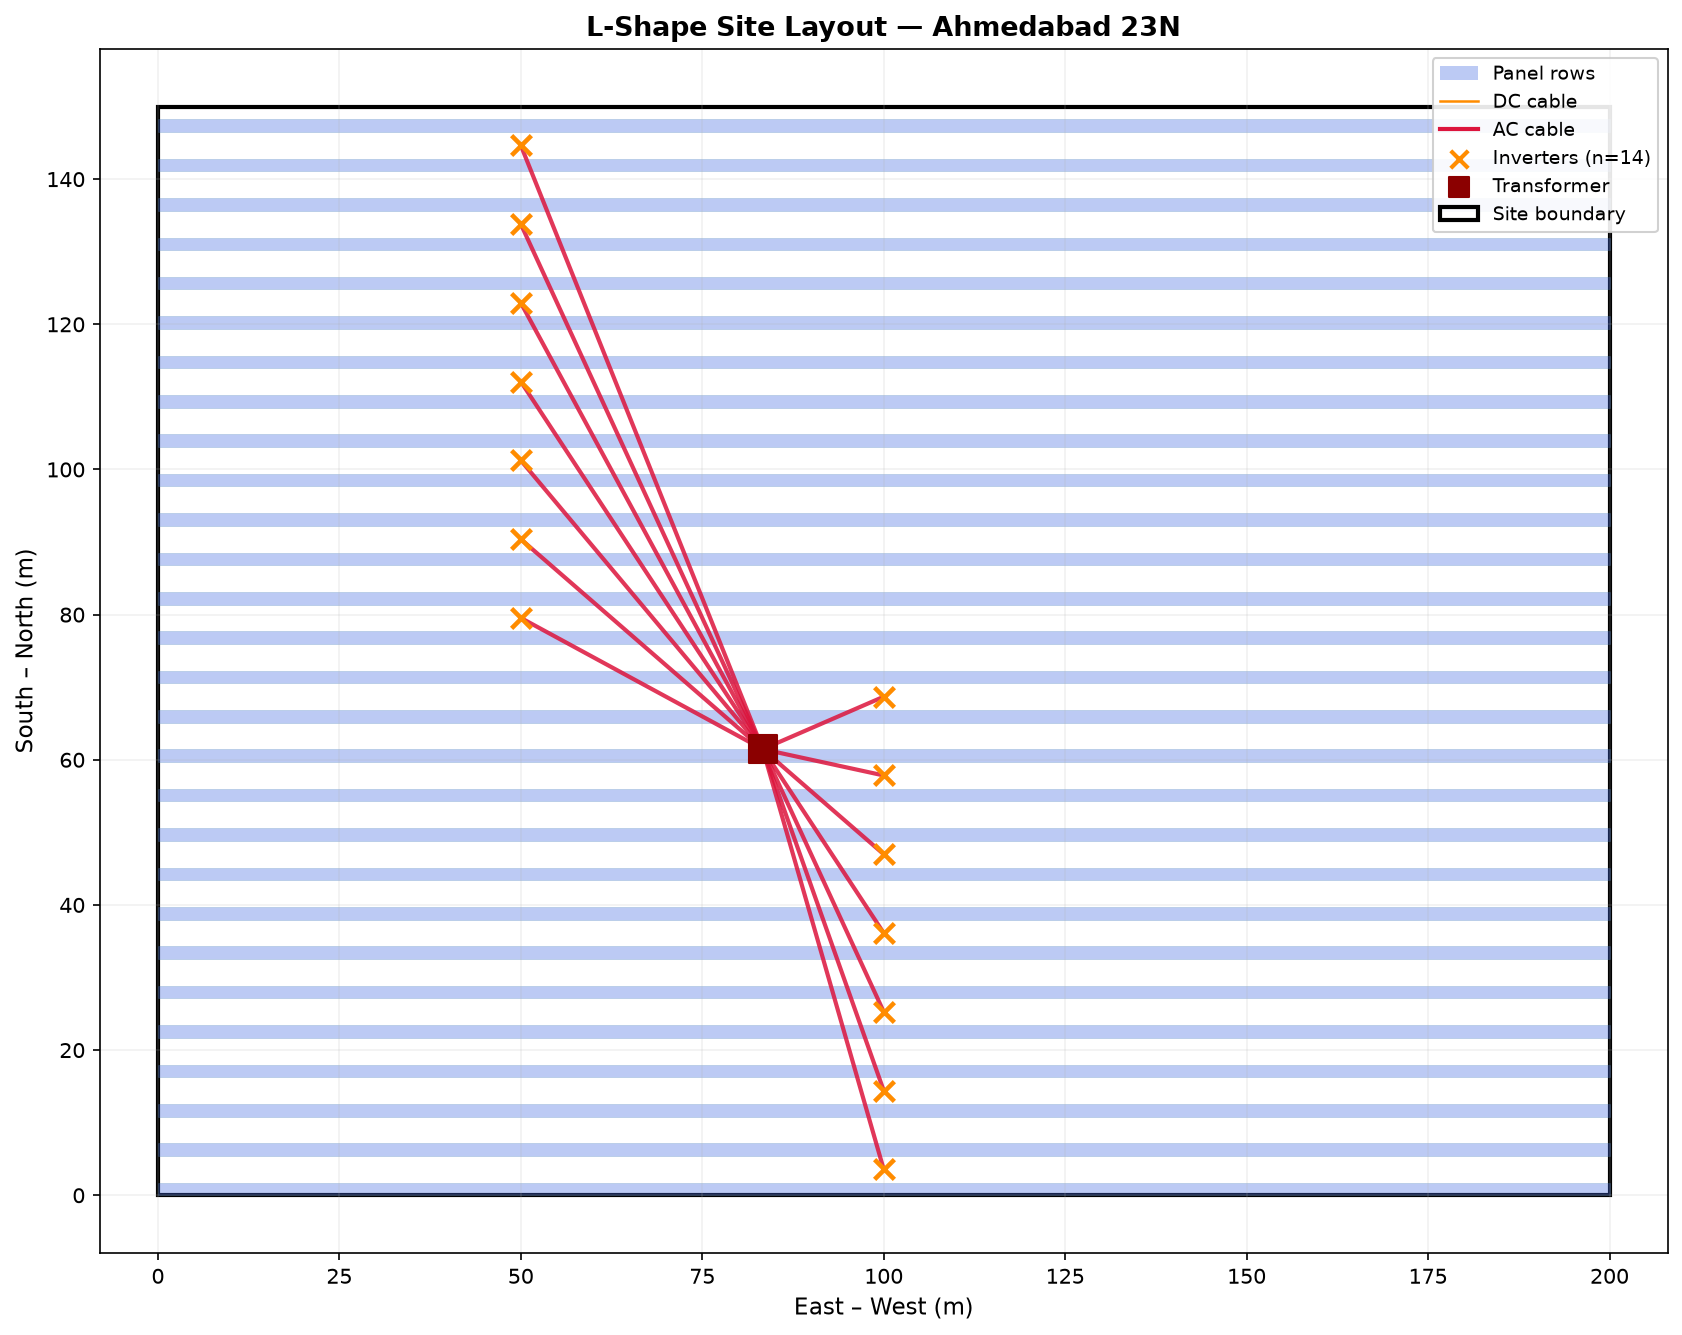
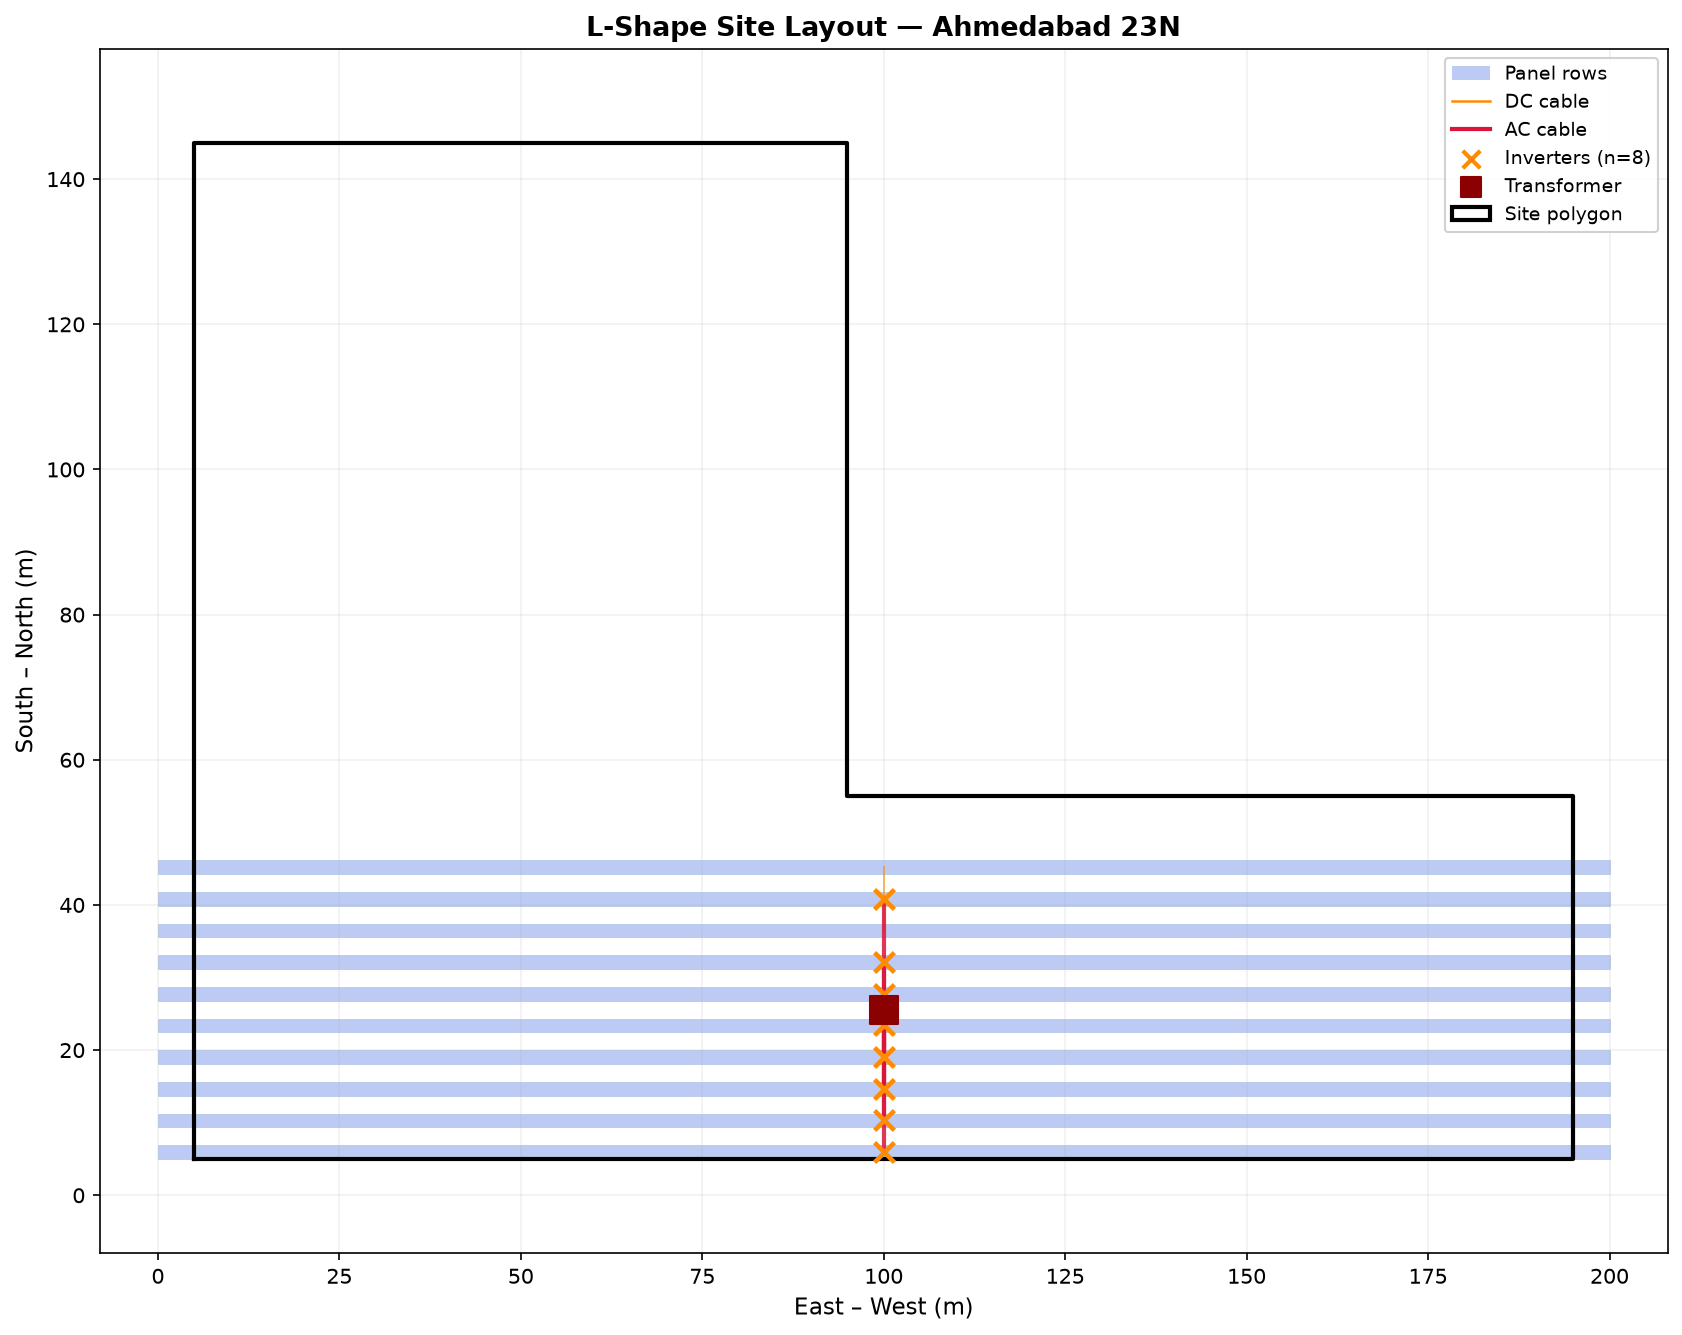
feat(examples): add run_lshape.py; regenerate layout_lshape.png with correct polygon outline
- New script exercises place_panels_polygon + apply_setback + render_layout
  with boundary= so the actual L-shape outline is visible in the PNG
- Replaces the old bounding-box-rectangle version of layout_lshape.png

Changed region(s): [[0.0927, 0.0307, 0.9893, 0.9213]]

diff --git a/plugins/pv-layout-design/examples/run_lshape.py b/plugins/pv-layout-design/examples/run_lshape.py
@@ -1,0 +1,81 @@
+"""
+L-shape site example — Ahmedabad 23N.
+
+Site: 200 m × 150 m minus a 100 m × 90 m notch from the top-right corner.
+Polygon vertices (metres): (0,0)→(200,0)→(200,60)→(100,60)→(100,150)→(0,150)
+Setback: 5 m from every edge.
+
+Run from repo root:
+    python plugins/pv-layout-design/examples/run_lshape.py
+"""
+
+import sys
+import pathlib
+
+sys.path.insert(0, str(pathlib.Path(__file__).parent.parent))
+
+from shapely.geometry import Polygon
+from pv_layout import (
+    apply_setback, place_panels_polygon,
+    ModuleSpec,
+    place_equipment, InverterSpec, TransformerSpec,
+    compute_all_losses, CableSpec,
+    render_layout,
+    recommend_tilt,
+)
+
+# ── Site ──────────────────────────────────────────────────────────────────────
+LAT, LON = 23.0, 72.6
+boundary_raw = Polygon([
+    (0, 0), (200, 0), (200, 60), (100, 60), (100, 150), (0, 150),
+])
+boundary = apply_setback(boundary_raw, setback_m=5.0)
+
+# ── Specs ─────────────────────────────────────────────────────────────────────
+tilt_deg  = recommend_tilt(LAT)          # → 20° for lat 23°
+module    = ModuleSpec(length=2.0, width=1.0, power_wp=400.0)
+inverter  = InverterSpec(rated_kw=100.0)
+xfmr      = TransformerSpec(rated_kva=500.0, p_no_load_kw=0.5, p_load_rated_kw=5.0)
+dc_cable  = CableSpec(material="copper", area_mm2=35.0)
+ac_cable  = CableSpec(material="copper", area_mm2=35.0)
+
+DC_V, AC_V, AC_PF = 1000.0, 400.0, 0.98
+
+# ── Geometry ──────────────────────────────────────────────────────────────────
+layout = place_panels_polygon(boundary, LAT, LON, module, tilt_deg, target_kwp=700.0)
+
+print(f"Tilt (recommended)  : {tilt_deg} deg")
+print(f"Row pitch           : {layout.pitch:.3f} m")
+print(f"GCR                 : {layout.gcr:.4f}")
+print(f"Rows placed         : {layout.n_rows}")
+print(f"Total DC capacity   : {layout.total_kwp:.1f} kWp")
+
+# ── Equipment placement ───────────────────────────────────────────────────────
+placement = place_equipment(
+    layout.row_centroids, layout.n_per_row, layout.total_kwp,
+    module.power_wp, inverter, xfmr,
+)
+print(f"Inverters           : {placement.n_inverters}")
+
+# ── Losses ────────────────────────────────────────────────────────────────────
+losses = compute_all_losses(
+    placement, layout.total_kwp,
+    dc_cable, ac_cable,
+    DC_V, AC_V, xfmr, ac_power_factor=AC_PF,
+)
+print(f"Total loss          : {losses.total_loss_pct:.3f} %")
+
+# ── Plot (with real polygon boundary) ────────────────────────────────────────
+out_path = pathlib.Path(__file__).parent / "layout_lshape.png"
+bbox = boundary_raw.bounds          # (minx, miny, maxx, maxy)
+site_w, site_h = bbox[2] - bbox[0], bbox[3] - bbox[1]
+
+render_layout(
+    site_w, site_h,
+    layout.row_centroids, module.length, module.width, tilt_deg,
+    placement,
+    output_path=str(out_path),
+    title="L-Shape Site Layout — Ahmedabad 23N",
+    boundary=boundary,              # ← draws actual polygon outline
+)
+print(f"Saved: {out_path}")
